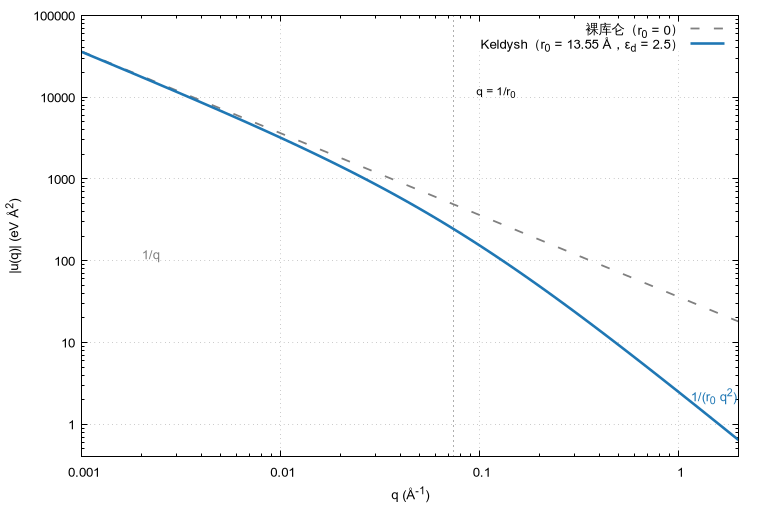
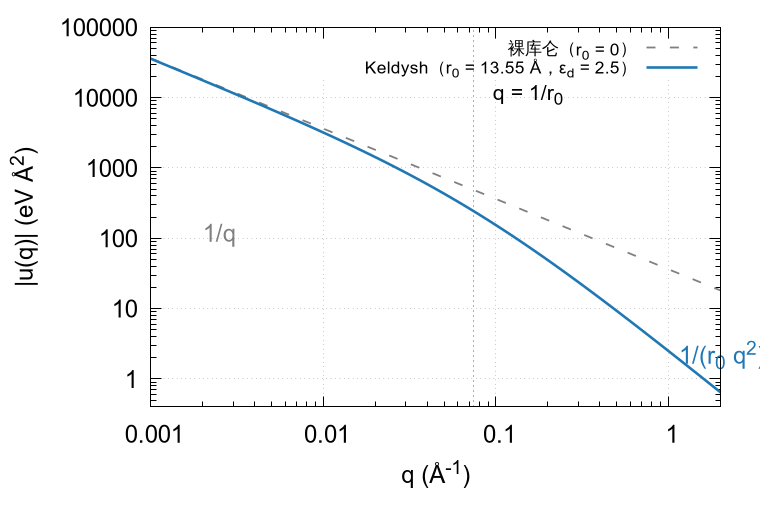
图 1 重排：两栏各自"目标 vs 拟合"，线型分开；顺带修字号
上一版把正确/错误两套口径的四条拟合曲线和 17 条排序能带全塞进一个坐标里，
读者分不清哪条是目标、哪条是结果。改成两栏：

  (a) 拼接后的物理能带（橙实线，目标） vs 按它拟合的结果（蓝虚线）
  (b) 按能量排序的能带（深灰实线，目标） vs 按它拟合的结果（红虚线），
      浅灰点线只作背景，表示文件里其它排序能带

统一语义：实线=拟合目标，虚线=拟合结果，背景=点线。两栏的括号里写残差
（正确 0.038/0.024 eV，错误 0.129/0.173 eV），不必再单开一栏画残差。

另外把三张图的字号按版面比例放大（原来 880 px 画布缩到 13 cm 只剩 4-5 pt，
基本看不清），并把图注里的线型说明改成与图一致。

diff --git a/doc/theory.tex b/doc/theory.tex
@@ -219,7 +219,7 @@ Wannier90 在每个 $k$ 点按能量从小到大输出能级。
 
 0.055~eV 是错误口径对着排序能带自报的数值。
 把同一组参数拿去和拼接后的物理能带比，CB1 与 CB2 的偏差是 0.13~eV 与 0.17~eV，
-最大到 0.4~eV（图~\ref{fig:stitch}~下栏）。
+最大到 0.4~eV（图~\ref{fig:stitch}(b)）。
 换句话说，拟合过程认为自己拟合得不错，是因为它对比的参考本身就是错的。
 
 
@@ -263,11 +263,11 @@ $K$ 谷附近模型的第二条导带能量较高。
 \begin{figure}[H]
 \centering
 \includegraphics[width=0.84\textwidth]{fig_stitch.png}
-\caption{按排序能带拟合与按物理能带拟合的对比。
-上图灰色虚线是 Wannier90 原始文件里按能量排序的能带（能量窗口内是第 9 到 13 条，
-其余在窗口之外），蓝线是拼接之后拟合出的三条带，红线是直接拿排序能带当参考
-拟合出的三条带；后者的导带在 $K$ 谷附近被拉出明显畸变。
-下图是两种口径相对物理参考的导带残差，错误口径最大到 $0.4$~eV，正确口径在 $0.12$~eV 以内。}
+\caption{两种口径的对比。每栏里实线是拟合目标，虚线是按该目标拟合出的结果。
+(a) 目标取拼接后的物理能带；(b) 目标取按能量排序的能带
+（浅色点线是文件里其它的排序能带）。
+括号里是拟合结果相对物理能带的残差：正确口径 0.038 与 0.024~eV，
+错误口径 0.129 与 0.173~eV。}
 \label{fig:stitch}
 \end{figure}
 
